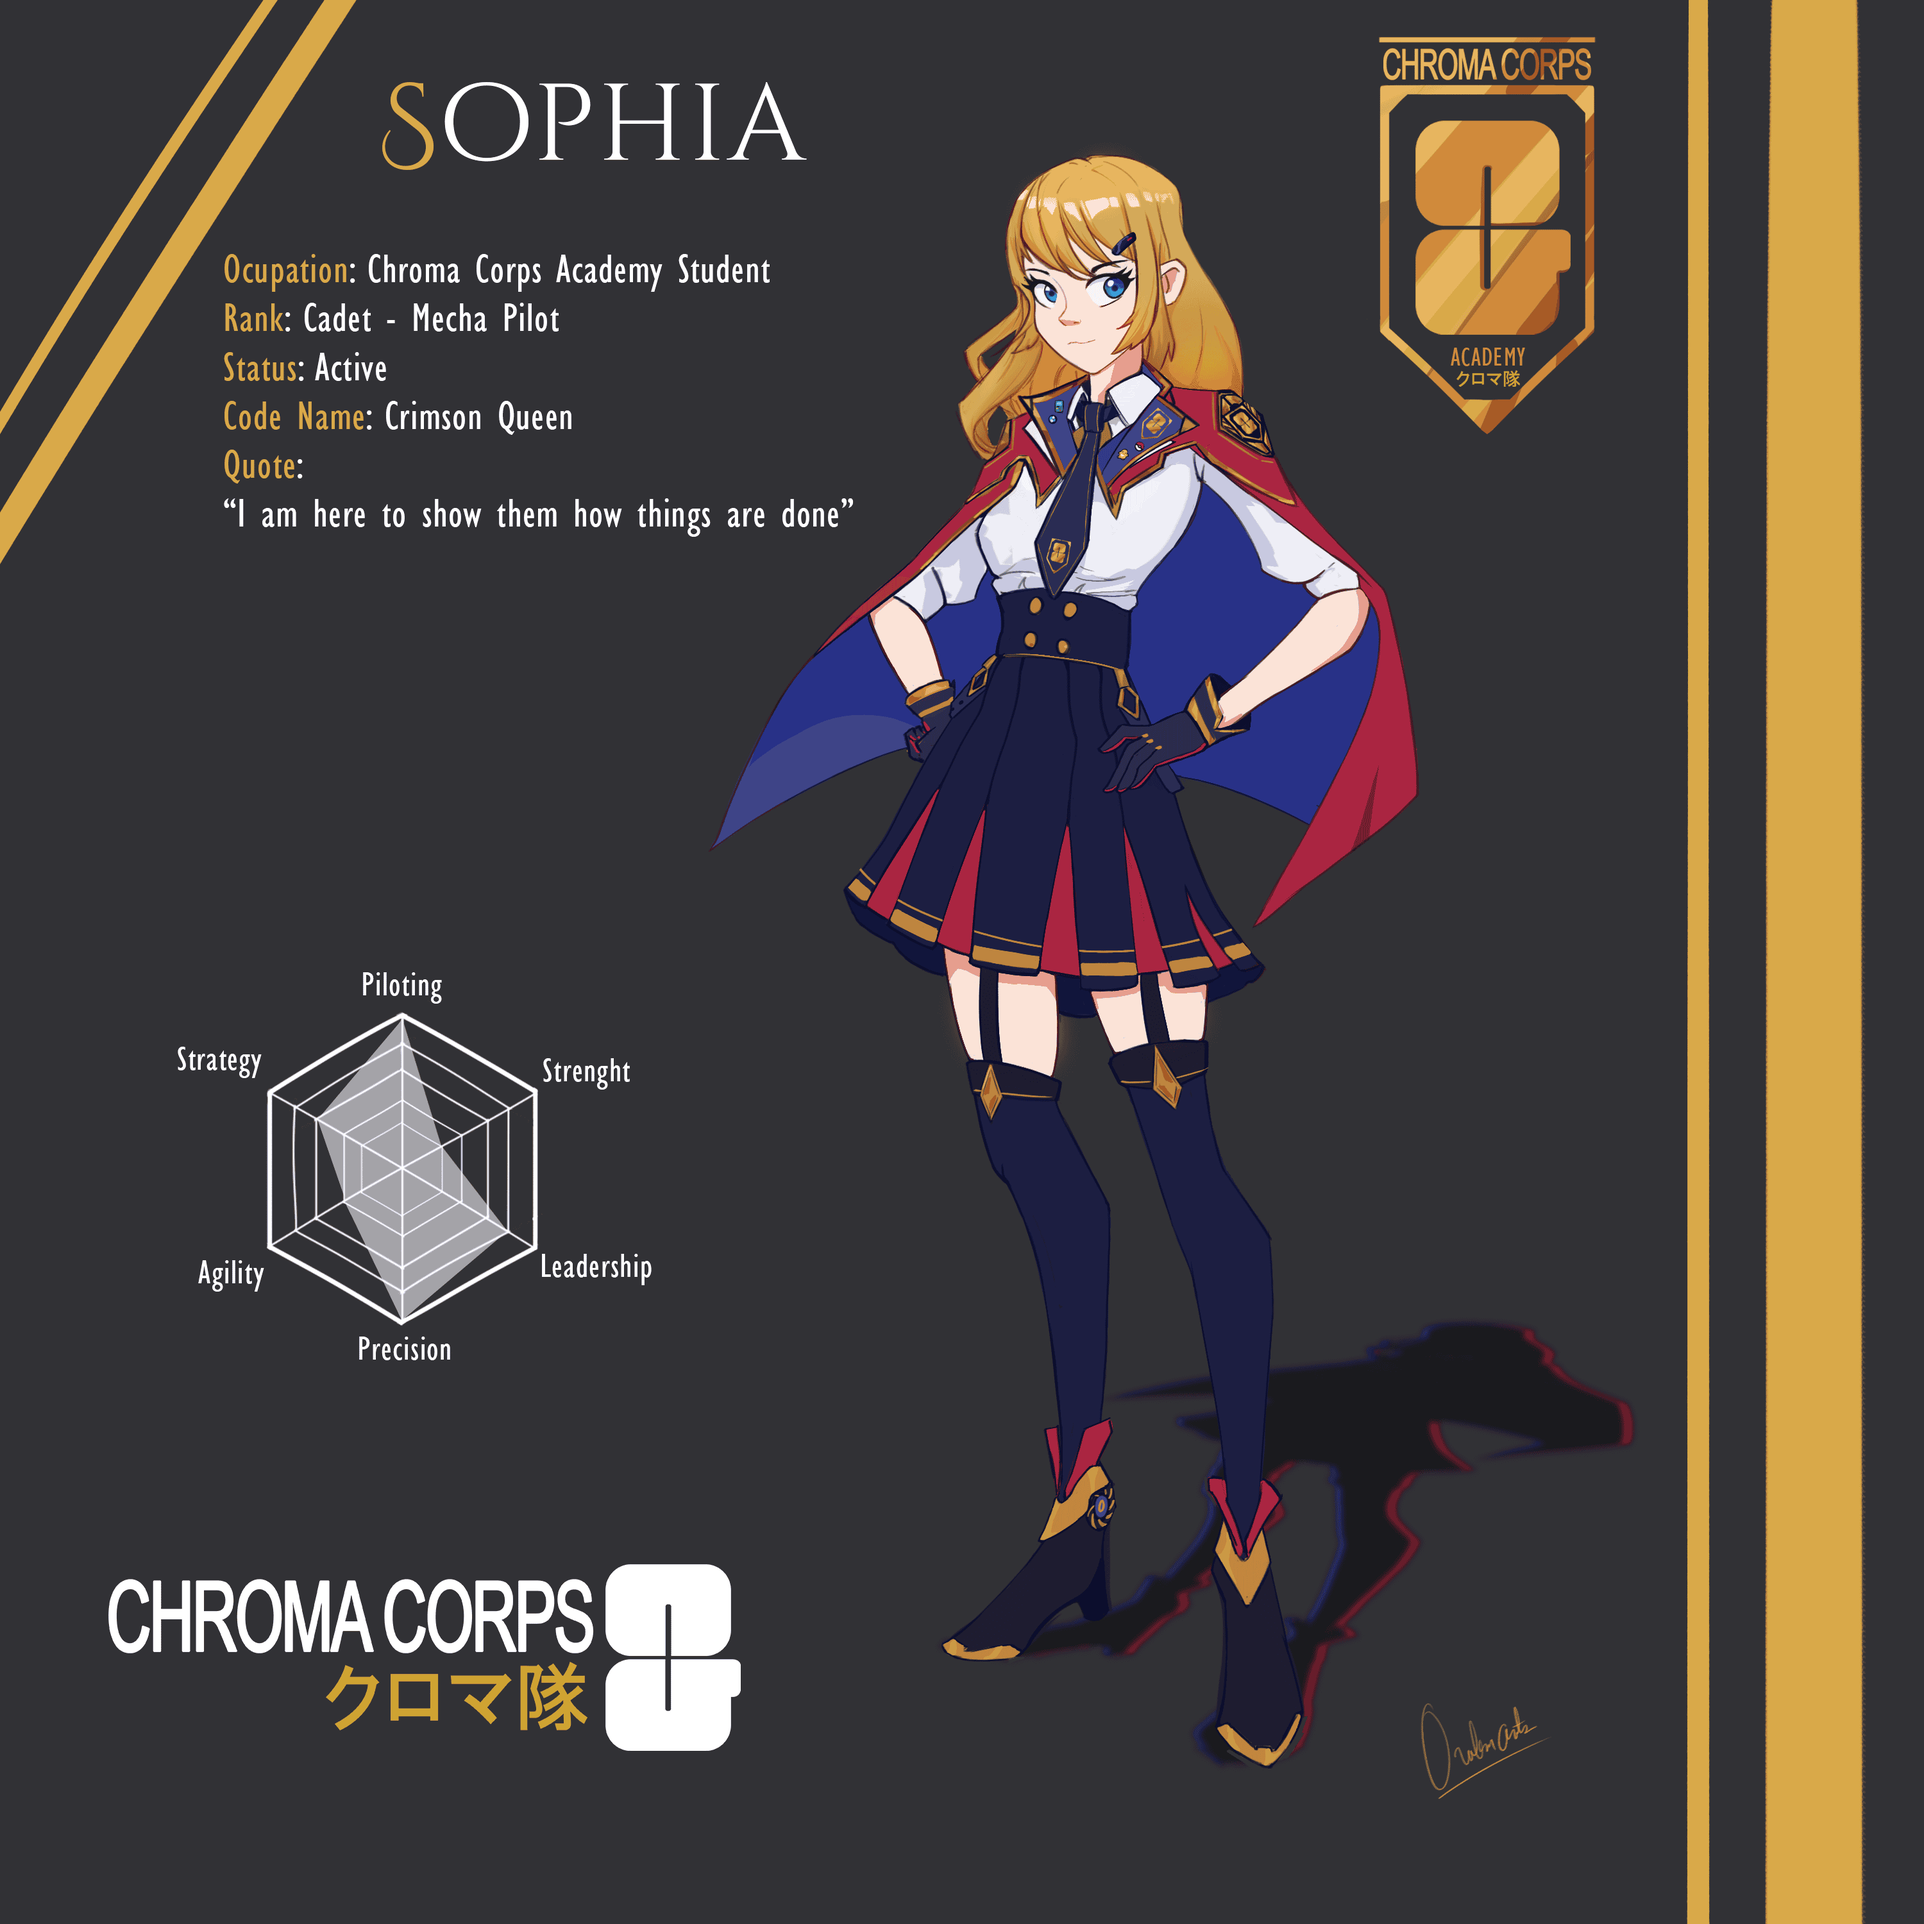
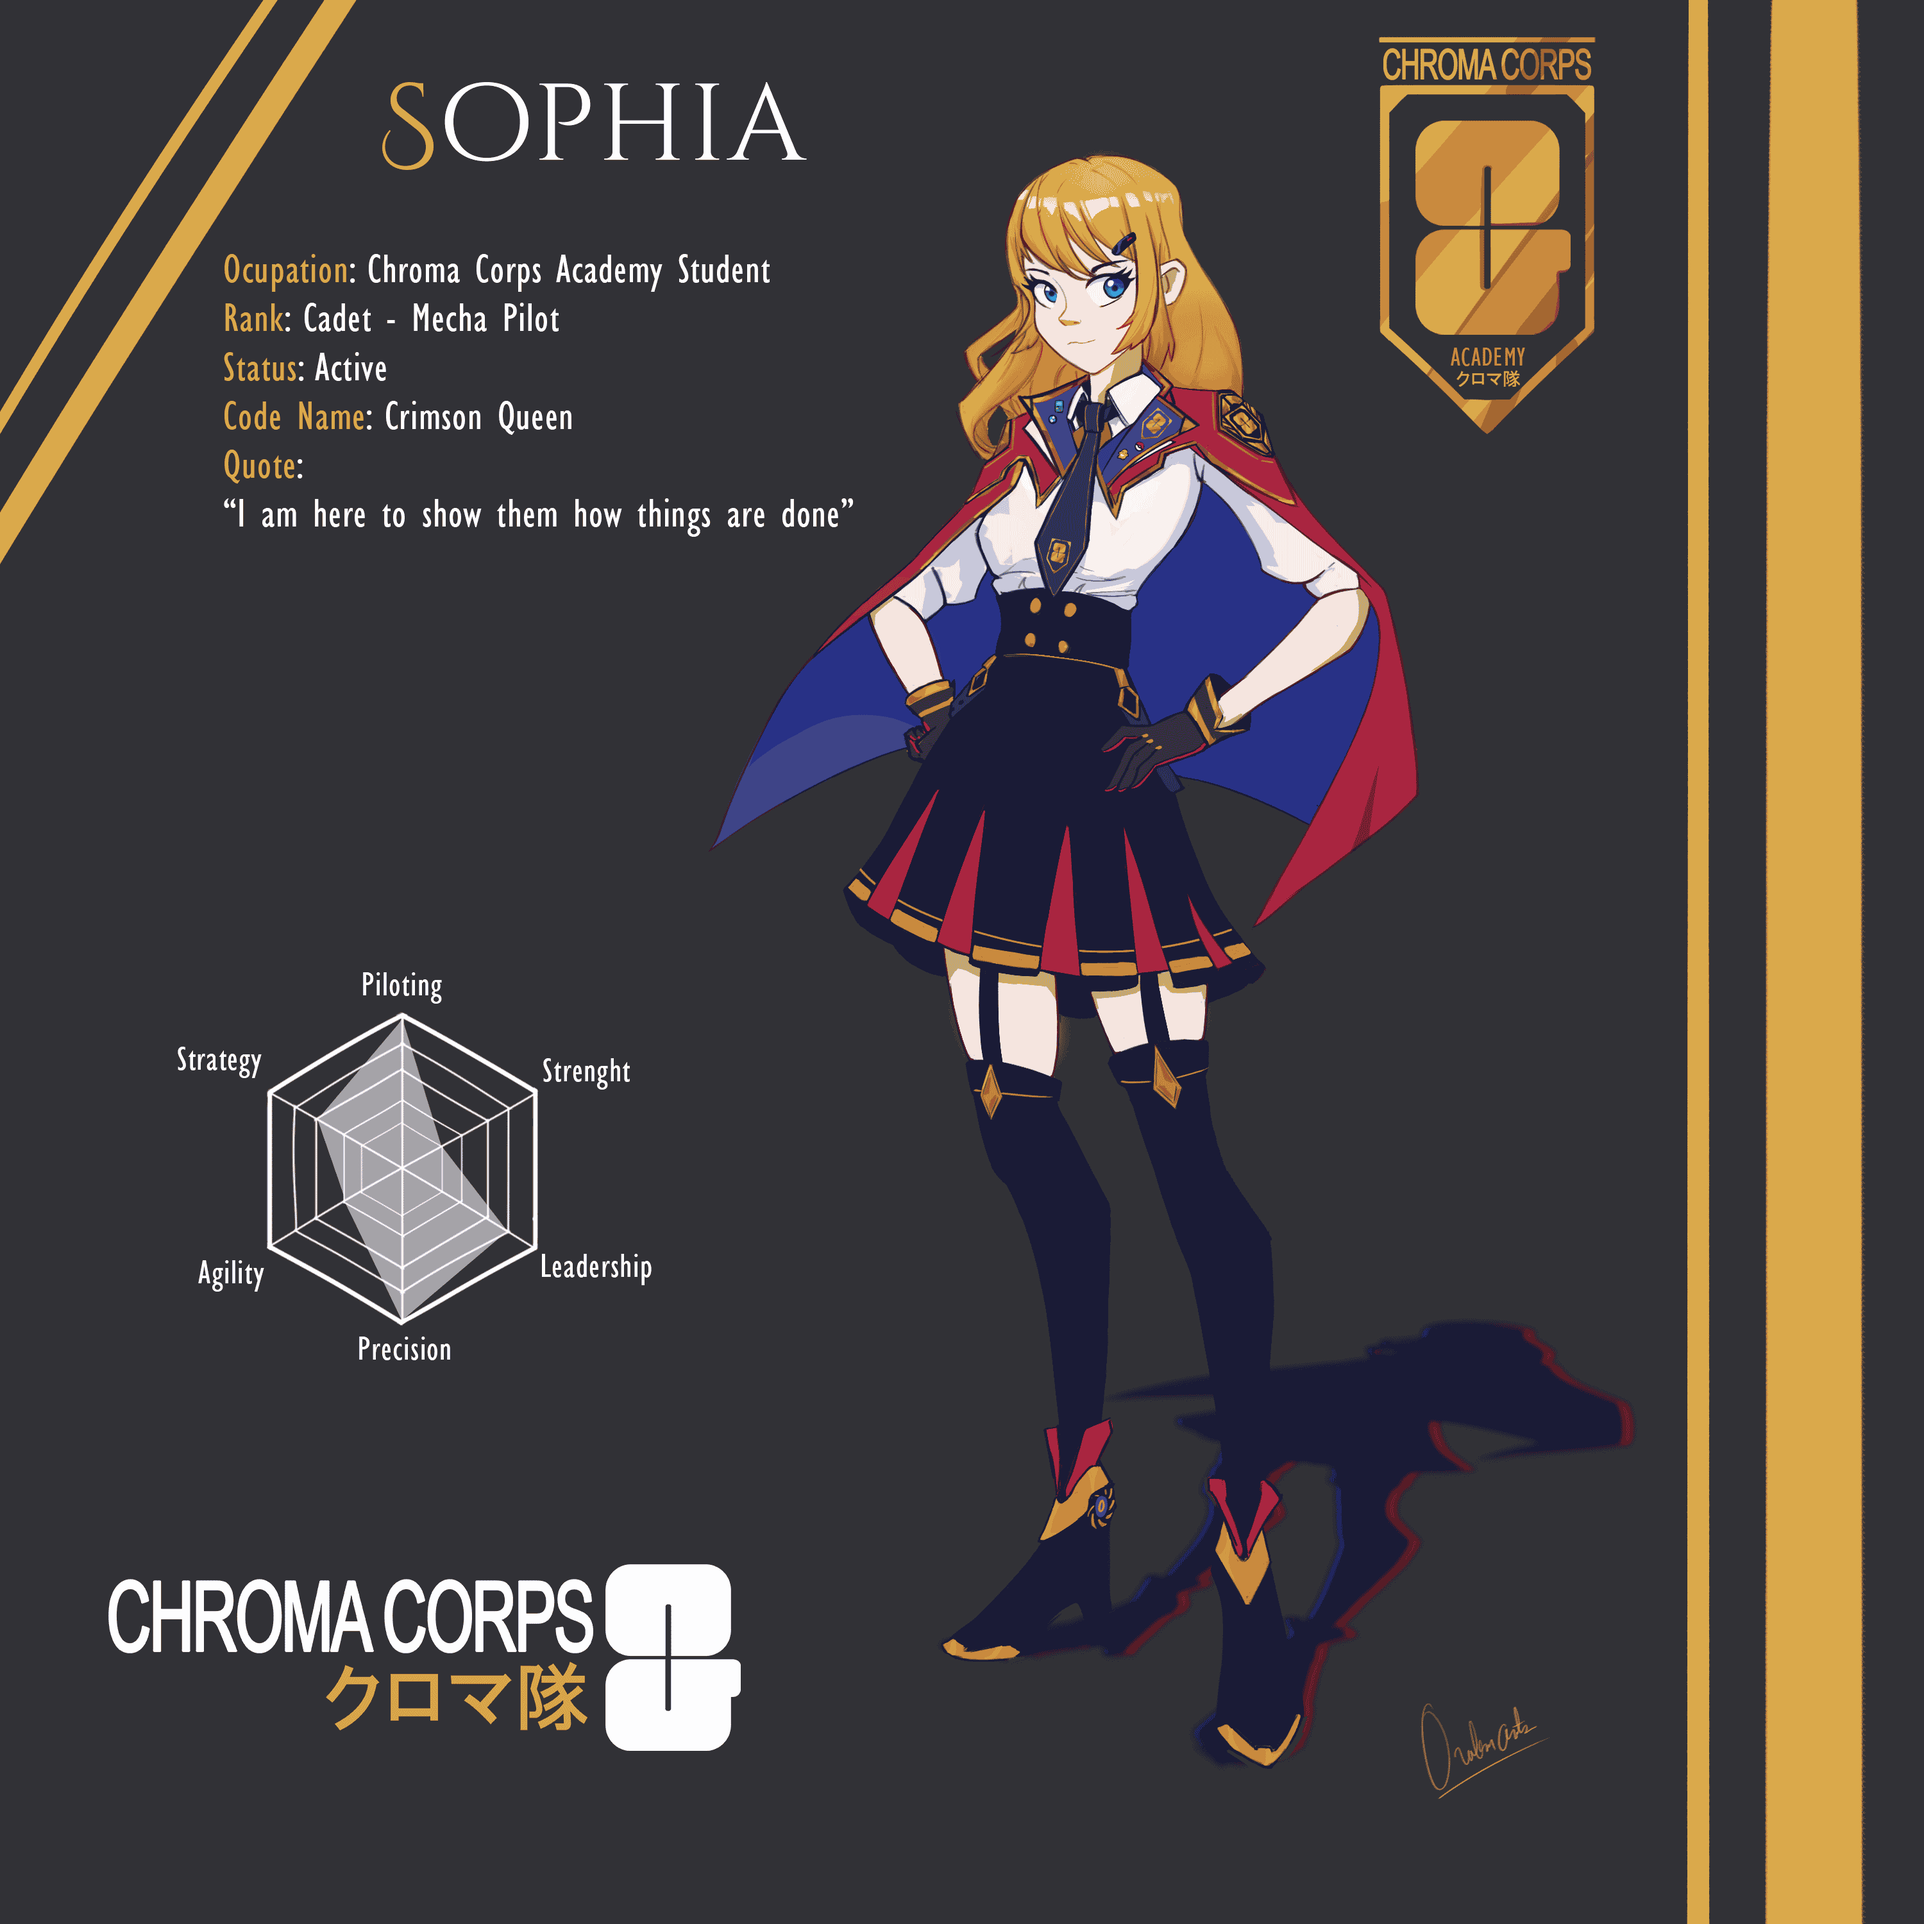
compressing images

diff --git a/src/App.vue b/src/App.vue
@@ -1,17 +1,16 @@
-<script lang='ts' setup >
-import ArtistCollection from './components/artistCollection.vue';
-import Appbar from './components/appbar.vue';
-import VideoBanner from './components/videoBanner.vue';
-import Dialog from './components/dialog.vue';
-import ImageViewer from './components/imageViewer.vue';
-import { useUi } from './store';
+<script lang="ts" setup>
+import ArtistCollection from "./components/artistCollection.vue";
+import Appbar from "./components/appbar.vue";
+import VideoBanner from "./components/videoBanner.vue";
+import Dialog from "./components/dialog.vue";
+import ImageViewer from "./components/imageViewer.vue";
+import { useUi } from "./store";
 
 const uiStore = useUi();
 
 const { setcurrentImage, toggleDialog } = uiStore;
 
 const { artists } = uiStore;
-
 </script>
 
 <template>
@@ -24,36 +23,41 @@ const { artists } = uiStore;
 
     <article id="about" class="about">
         <h1>¿Quienes somos?</h1>
-        <p>Lorem, ipsum dolor sit amet consectetur adipisicing elit. Explicabo eligendi illo maiores quis dolorum eos,
-            corrupti nisi cupiditate voluptate accusamus. Repellendus expedita facilis temporibus repellat minima
-            quaerat inventore nisi amet.</p>
+        <p>
+            Lorem, ipsum dolor sit amet consectetur adipisicing elit. Explicabo
+            eligendi illo maiores quis dolorum eos, corrupti nisi cupiditate
+            voluptate accusamus. Repellendus expedita facilis temporibus
+            repellat minima quaerat inventore nisi amet.
+        </p>
     </article>
 
     <article id="artistas" class="collections">
         <h2>Titulo para esta seccion</h2>
 
-        <ArtistCollection v-for="artist in artists" :artist="artist"></ArtistCollection>
+        <ArtistCollection
+            v-for="artist in artists"
+            :artist="artist"
+        ></ArtistCollection>
     </article>
-
 </template>
 
 <style scopeed>
-@import url('https://fonts.googleapis.com/css2?family=Poppins&display=swap');
+@import url("https://fonts.googleapis.com/css2?family=Poppins&display=swap");
 
 html {
     color-scheme: light;
     scroll-behavior: smooth;
 }
-
-
+.material-icons {
+    transition: opacity 0.9s;
+}
 
 * {
-    font-family: 'Poppins', sans-serif;
+    font-family: "Poppins", sans-serif;
     box-sizing: border-box;
     margin: 0;
     padding: 0;
 }
-
 
 #app {
     width: 100%;
@@ -61,7 +65,7 @@ html {
     flex-direction: column;
 }
 
-.about{
+.about {
     padding-top: 3rem;
     display: flex;
     flex-direction: column;
@@ -70,11 +74,10 @@ html {
     width: 90%;
 }
 
-.about h1{
+.about h1 {
     font-size: 2rem;
-    
 }
-.about p{
+.about p {
     padding: 2rem;
     font-size: x-large;
     line-height: 2;
@@ -90,30 +93,30 @@ html {
     margin-left: 5rem;
 }
 
-@media (max-width:768px) {
+@media (max-width: 768px) {
     .collections h2 {
         font-size: 1.6rem;
         margin-left: 1rem;
     }
-    
-.about{
-    padding: 1rem;
-    display: flex;
-    flex-direction: column;
-    gap: 1rem;
-    margin: auto;
-    width: 90%;
-}
 
-.about h1{
-    font-size: 2rem;
-    text-align: center;
-}
-.about p{
-    font-size: larger;
-    padding: 0;
-    line-height: 1.5;
-    text-align: center;
-}
+    .about {
+        padding: 1rem;
+        display: flex;
+        flex-direction: column;
+        gap: 1rem;
+        margin: auto;
+        width: 90%;
+    }
+
+    .about h1 {
+        font-size: 2rem;
+        text-align: center;
+    }
+    .about p {
+        font-size: larger;
+        padding: 0;
+        line-height: 1.5;
+        text-align: center;
+    }
 }
 </style>
